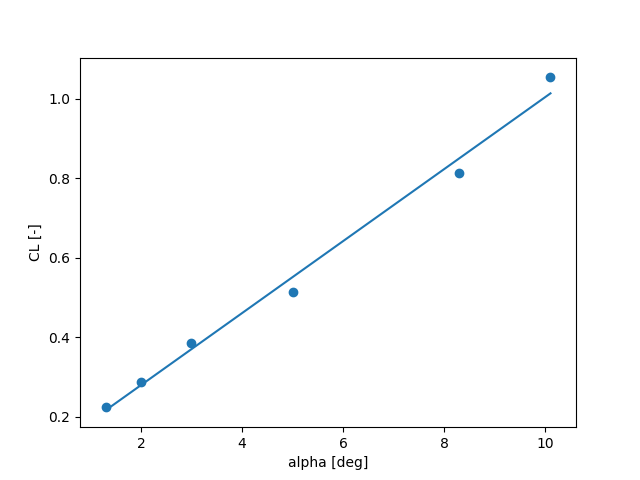
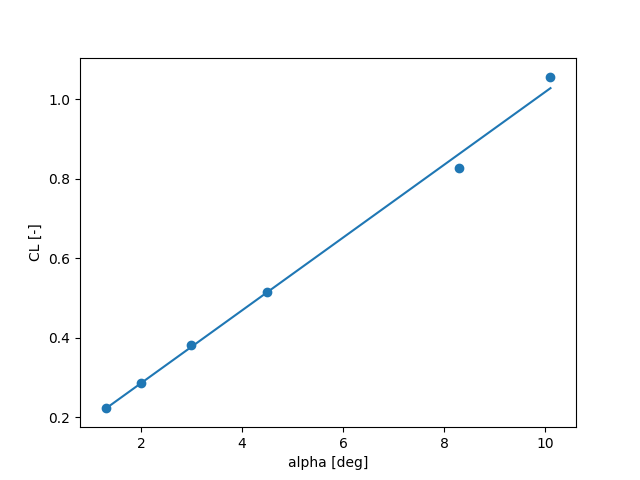
Stuff in src

diff --git a/domas/trim.py b/domas/trim.py
@@ -1,0 +1,187 @@
+import numpy as np
+import matplotlib.pyplot as plt
+from scipy import stats
+import os 
+
+pi = np.pi
+gamma = 1.4
+
+ft_m = 0.3048
+kts_ms = 0.514444
+c_k = 273.15
+lbshr_kgs = 0.000125998
+lbs_kg = 0.453592
+
+# hp[ft] IAS[kts] a[deg] de[deg] detr[deg] Fe[N] FFl[lbs/hr] FFr[lbs/hr] Fused[lbs] TAT[C]
+data = np.array([[7540,	160,	4.8,	0.2,	3.1,	0,	417,	456,	686,	2.0],
+[7750,	150,	5.5,	-0.2,	3.1,	-18,	415,	454,	734,	1.2],
+[8090,	139,	6.6,	-0.6,	3.1,	-27,	411,	450,	766,	-0.6],
+[8500,	130,	7.7,	-1.1,	3.1,	-32,	406,	444,	790,	-1.8],
+[7730,	172,	4.0,	0.6,	3.1,	15,	424,	463,	817,	1.5],
+[7290,	180,	3.5,	0.8,	3.1,	32,	427,	467,	837,	3.5],
+[6600,	190,	3.0,	1.1,	3.1,	50,	437,	477,	862,	5.0]])
+
+data_not_si_T = data_not_si.T
+h_ft = data_not_si_T[0]
+V_kts = data_not_si_T[1]
+alpha_deg = data_not_si_T[2]
+de_deg = data_not_si_T[3]
+detr_deg = data_not_si_T[4]
+Fe_N = data_not_si_T[5]
+FFl_lbshr = data_not_si_T[6]
+FFr_lbshr = data_not_si_T[7]
+Wf_lbs = data_not_si_T[8]
+TAT_c = data_not_si_T[9]
+
+# h[m] v[m/s] tat[K] ffl[kg/s] ffr[kg/s] wf[kg] alpha[rad]
+person_weight_kg = [92, 95, 76, 61, 59, 66, 77, 77, 84]
+empty_weight_lbs = 9165
+total_fuel_lbs = 2650
+
+empty_weight_kg = empty_weight_lbs * lbs_kg
+total_fuel_kg = total_fuel_lbs * lbs_kg
+
+m_tot = sum(person_weight_kg) + empty_weight_kg + total_fuel_kg
+
+hp0 = h_ft * ft_m
+V0 = V_kts * kts_ms
+alpha0 = np.radians(alpha_deg)
+th0 = alpha0 # Slope was zero for all these measurements
+m = m_tot - Wf_lbs * lbs_kg
+Tmeas = TAT_c + c_k
+FFl = FFl_lbshr * lbshr_kgs
+FFr = FFr_lbshr * lbshr_kgs
+
+# xcg = 0.25 * c    # Not sure what to do with this
+
+# Aircraft geometry
+S      = 30.00	          # wing area [m^2]
+Sh     = 0.2 * S         # stabiliser area [m^2]
+Sh_S   = Sh / S	          # [ ]
+lh     = 0.71 * 5.968    # tail length [m]
+c      = 2.0569	          # mean aerodynamic cord [m]
+lh_c   = lh / c	          # [ ]
+b      = 15.911	          # wing span [m]
+bh     = 5.791	          # stabilser span [m]
+A      = b ** 2 / S      # wing aspect ratio [ ]
+Ah     = bh ** 2 / Sh    # stabilser aspect ratio [ ]
+Vh_V   = 1	          # [ ]
+ih     = -2 * pi / 180   # stabiliser angle of incidence [rad]
+
+# Constant values concerning atmosphere and gravity
+rho0   = 1.2250          # air density at sea level [kg/m^3] 
+labda = -0.0065         # temperature gradient in ISA [K/m]
+Temp0  = 288.15          # temperature at sea level in ISA [K]
+R      = 287.05          # specific gas constant [m^2/sec^2K]
+g      = 9.81            # [m/sec^2] (gravity constant)
+
+# Added
+p0 = 101325 #[N/m2]
+a = 343 #[m/s]
+
+# air density [kg/m^3]  
+rho    = rho0 * ((1+(labda * hp0 / Temp0)))**(-((g / (labda*R)) + 1))   
+W      = m * g            # [N]       (aircraft weight)
+
+# ISA calculations
+p = p0 * (1 + labda * hp0 / Temp0) ** (-g / labda / R)
+
+M_calc_1 = 1 + (gamma - 1) / (2 * gamma) * rho0 / p0 * V0**2
+M_calc_2 = M_calc_1**(gamma / (gamma - 1)) - 1
+M_calc_3 = (1 + p0/p * M_calc_2) ** ((gamma - 1) / gamma)
+M = np.sqrt(2 / (gamma - 1) * (M_calc_3 - 1))
+
+T = Tmeas / (1 + (gamma - 1) / 2 * M**2)
+
+Vt = M * a
+Ve = Vt * np.sqrt(rho / rho0)
+
+# Constant values concerning aircraft inertia
+
+muc    = m / (rho * S * c)
+mub    = m / (rho * S * b)
+KX2    = 0.019
+KZ2    = 0.042
+KXZ    = 0.002
+KY2    = 1.25 * 1.114
+
+# Lift coefficient
+CL = 2 * W / (rho * V0 ** 2 * S)              # Lift coefficient [ ]
+
+#Plotting and finding CLa
+CLa, intercept, uu_r_value, uu_p_value, uu_std_err = stats.linregress(alpha_deg,CL) # Lots of unused (uu_) values
+
+linregress_x = np.array([min(alpha_deg), max(alpha_deg)])
+linregress_y = intercept + CLa * linregress_x
+
+plt.plot(linregress_x, linregress_y)
+plt.scatter(alpha_deg, CL)
+plt.ylabel('CL [-]')
+plt.xlabel('alpha [deg]')
+plt.savefig('CL_alphadeg.png')
+
+# CD calculations
+T_ISA = Temp0 + labda * hp0
+DeltaT = abs(T_ISA - T)
+
+'''
+for i in range(n_tests):
+    infile = open('matlab.dat', 'w')
+    infile.write(str(hp0[i])+' '+str(M[i])+' '+str(DeltaT[i])+' '+str(FFl[i])+' '+str(FFr[i]))
+    infile.close()
+    os.system('java -jar thrust.jar')
+    outfile = open('thrust.dat')
+    outstr = outfile.read()
+    print(outstr)
+    outfile.close()
+'''
+
+CD = CD0 + (CLa * alpha0) ** 2 / (pi * A * e) # Drag coefficient [ ]
+
+# Aerodynamic constants
+
+Cmac   = 0                      # Moment coefficient about the aerodynamic centre [ ]
+CNwa   = CLa                    # Wing normal force slope [ ]
+CNha   = 2 * pi * Ah / (Ah + 2) # Stabiliser normal force slope [ ]
+depsda = 4 / (A + 2)            # Downwash gradient [ ]
+
+# Stabiblity derivatives
+
+CX0    = W * sin(th0) / (0.5 * rho * V0 ** 2 * S)
+CXu    = -0.02792
+CXa    = -0.47966
+CXadot = +0.08330
+CXq    = -0.28170
+CXde   = -0.03728
+
+CZ0    = -W * cos(th0) / (0.5 * rho * V0 ** 2 * S)
+CZu    = -0.37616
+CZa    = -5.74340
+CZadot = -0.00350
+CZq    = -5.66290
+CZde   = -0.69612
+
+Cmu    = +0.06990
+Cmadot = +0.17800
+Cmq    = -8.79415
+
+CYb    = -0.7500
+CYbdot =  0     
+CYp    = -0.0304
+CYr    = +0.8495
+CYda   = -0.0400
+CYdr   = +0.2300
+
+Clb    = -0.10260
+Clp    = -0.71085
+Clr    = +0.23760
+Clda   = -0.23088
+Cldr   = +0.03440
+
+Cnb    =  +0.1348
+Cnbdot =   0     
+Cnp    =  -0.0602
+Cnr    =  -0.2061
+Cnda   =  -0.0120
+Cndr   =  -0.0939
+

diff --git a/domas/stationary.py b/domas/stationary.py
@@ -14,12 +14,12 @@ lbs_kg = 0.453592
 
 # h[ft] v[kts] tat[c] ffl[lbs/hr] ffr[lbs/hr] wf[lbs] alpha[deg]
 data_not_si = np.array([#[5010, 248, 11.2, 768, 784, 215, 1.5],
-                        [6040, 251, 10.5, 786, 776, 407, 1.3],
-                        [6030, 222, 8.0, 637, 652, 452, 2.0],
-                        [6030, 191, 6.0, 516, 548, 487, 3.0],
-                        [6040, 165, 4.8, 549, 468, 540, 5.0],
-                        [6030, 131, 3.5, 373, 385, 574, 8.3],
-                        [6040, 115, 3.2, 414, 436, 604, 10.1]])
+                        [6040, 251, 10.5, 786, 776, 410, 1.3],
+                        [6035, 222, 8.2, 637, 650, 450, 2.0],
+                        [6030, 192, 6.1, 515, 548, 487, 3.0],
+                        [6040, 165, 4.8, 558, 470, 540, 4.5],
+                        [6030, 130, 3.5, 373, 385, 574, 8.3],
+                        [6040, 115, 3.0, 414, 435, 604, 10.1]])
 
 n_tests = len(data_not_si)
 
@@ -123,17 +123,20 @@ plt.savefig('CL_alphadeg.png')
 T_ISA = Temp0 + labda * hp0
 DeltaT = abs(T_ISA - T)
 
-'''
+outfile = open('matlab.dat', 'w')
 for i in range(n_tests):
-    infile = open('matlab.dat', 'w')
-    infile.write(str(hp0[i])+' '+str(M[i])+' '+str(DeltaT[i])+' '+str(FFl[i])+' '+str(FFr[i]))
-    infile.close()
-    os.system('java -jar thrust.jar')
-    outfile = open('thrust.dat')
-    outstr = outfile.read()
-    print(outstr)
-    outfile.close()
-'''
+    outfile.write(str(hp0[i])+' '+str(M[i])+' '+str(DeltaT[i])+' '+str(FFl[i])+' '+str(FFr[i]))
+outfile.close()
+
+# This doesn't work on my device, sadly
+# os.system('java -jar thrust.jar')
+
+dummy = input("Only continue if thrust.dat exists.")
+
+infile = np.genfromtxt('thrust.dat').T
+T1 = infile[0]
+T2 = infile[1]
+Ttotal = T1 + T2
 
 CD = CD0 + (CLa * alpha0) ** 2 / (pi * A * e) # Drag coefficient [ ]
 

diff --git a/src/vconvert.py b/src/vconvert.py
@@ -1,0 +1,30 @@
+from isadata import *
+import numpy as np
+
+def hp_to_p(hp): return p0 * (1 + labda * hp / T0) ** -g0 / labda / R
+
+def p_Vc_to_M(p, Vc):
+    M_calc_1 = 1 + (gamma - 1) / (2 * gamma) * rho0 / p0 * Vc**2
+    M_calc_2 = M_calc_1 ** (gamma / (gamma - 1)) - 1
+    M_calc_3 = (1 + p0/p * M_calc_2) ** ((gamma - 1) / gamma) - 1
+    M = np.sqrt(2 / (gamma - 1) * M_calc_3)
+    return M
+
+def M_Tm_to_T(M, Tm): return Tm / (1 + (gamma - 1) / 2 * M**2)
+
+def T_to_a(T): return np.sqrt(gamma * R * T)
+
+def M_a_to_Vt(M, a): return M * a
+
+def p_T_to_rho(p, T): return p / R / T
+
+def Vt_rho_to_Ve(Vt, rho): return np.sqrt(rho / rho0)
+    
+def hp_Vc_Tm_to_Ve(hp, Vc, Tm):
+    p = hp_to_p(hp)
+    M = p_Vc_to_M(p, Vc)
+    T = M_Tm_to_T(M, Tm)
+    a = T_to_a(T)
+    Vt = M_a_to_Vt(M, a)
+    rho = p_T_to_rho(p, T)
+    return Vt_rho_to_Ve(Vt, rho)

diff --git a/src/isadata.py b/src/isadata.py
@@ -1,0 +1,5 @@
+rho0   = 1.2250          # air density at sea level [kg/m^3] 
+labda = -0.0065         # temperature gradient in ISA [K/m]
+T0  = 288.15          # temperature at sea level in ISA [K]
+R      = 287.05          # specific gas constant [m^2/sec^2K]
+g      = 9.81            # [m/sec^2] (gravity constant)
